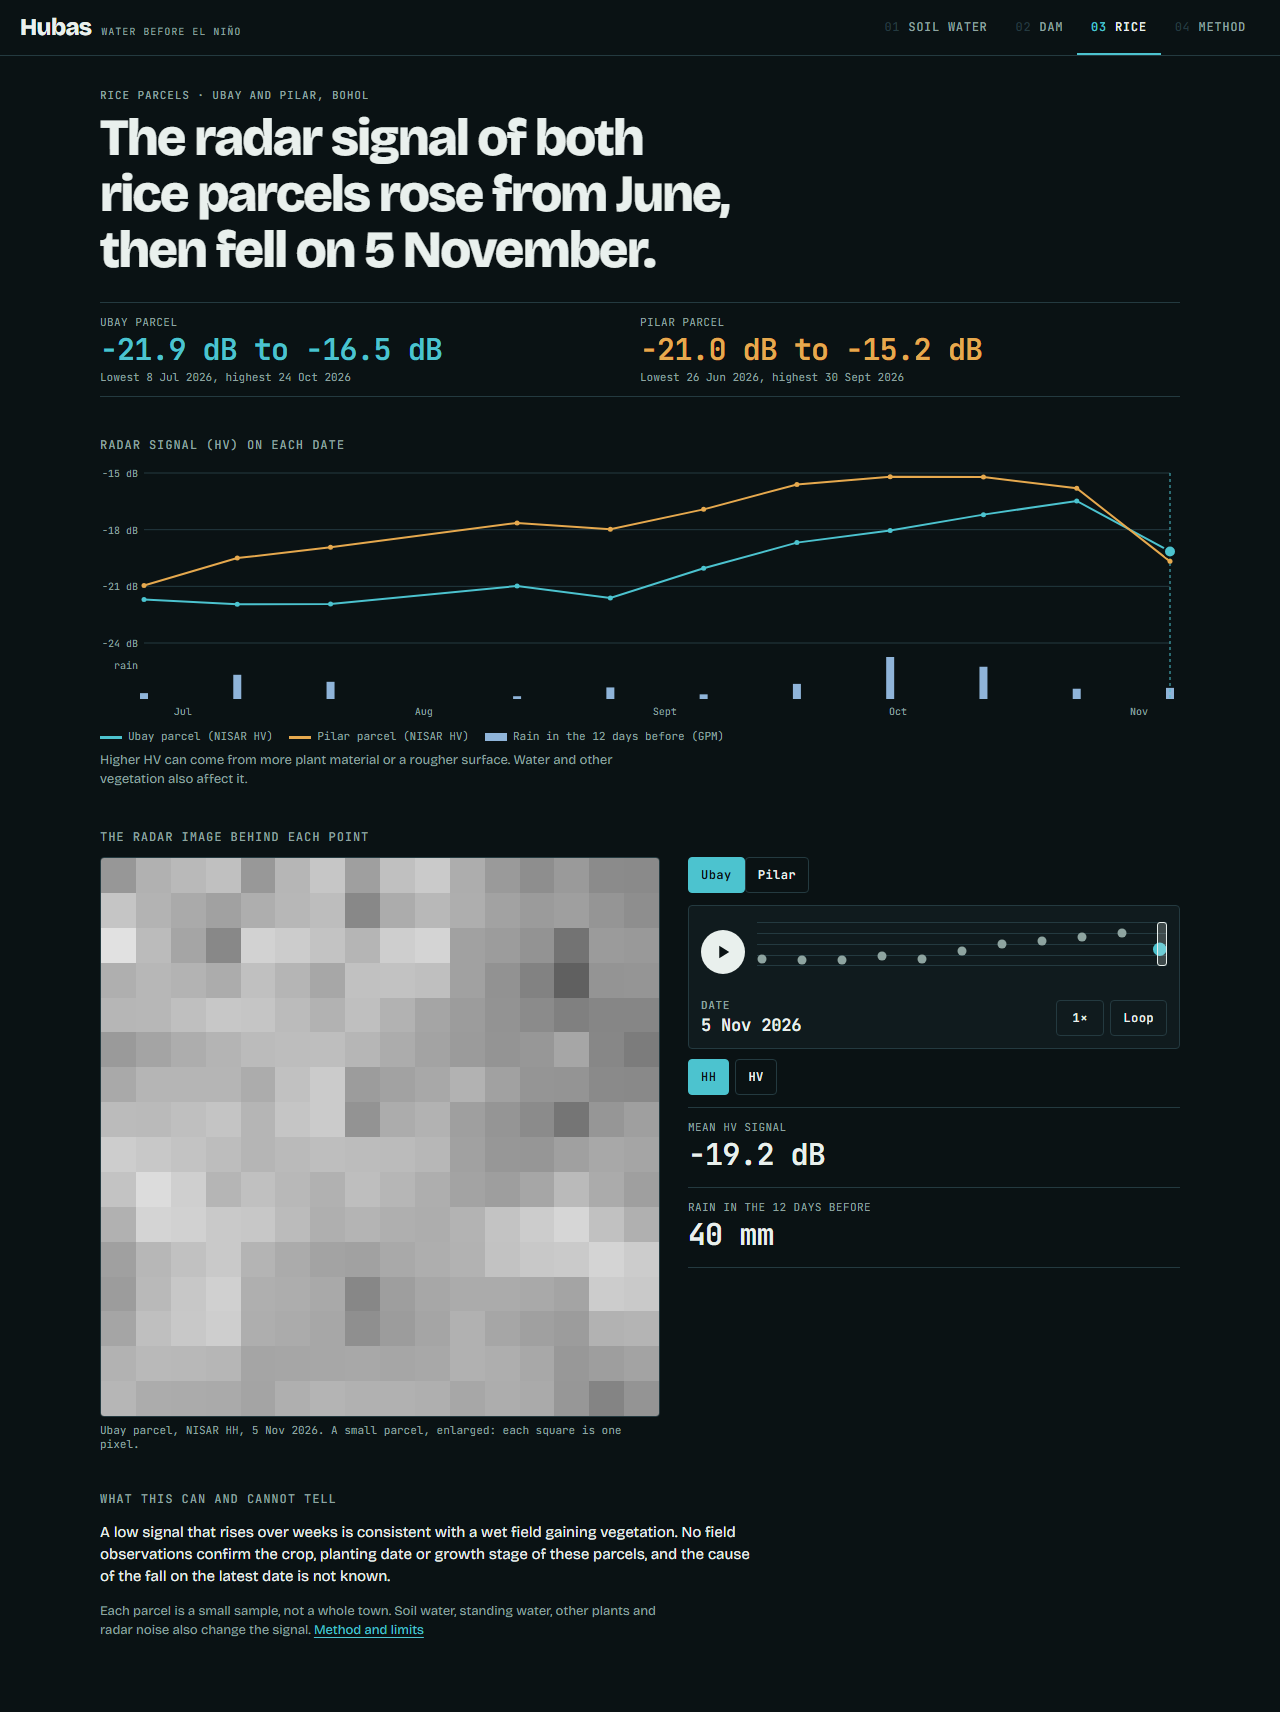
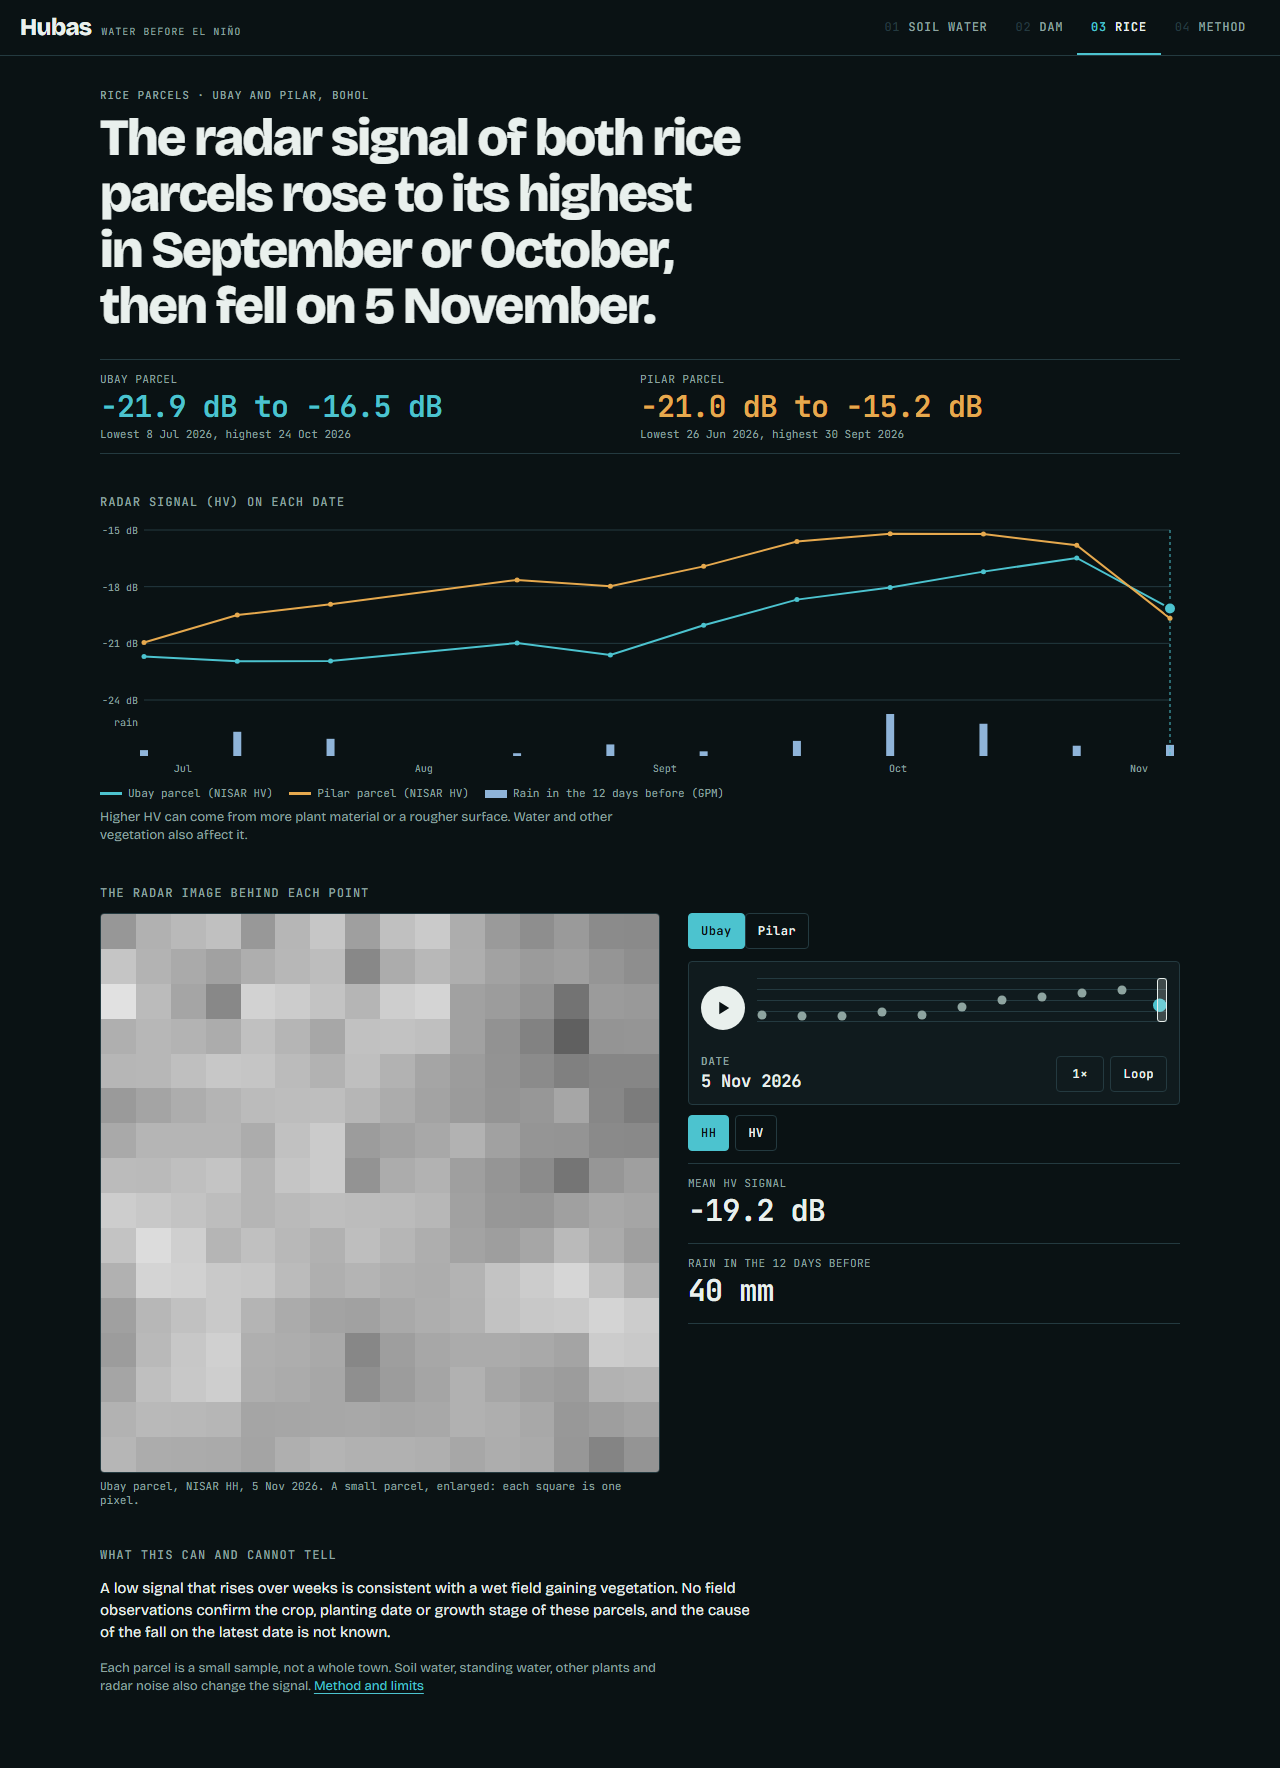
fix: match the rice heading to the HV data of both parcels [sc-514]
"Rose from June" was wrong for Ubay, whose lowest HV is on 8 July. The
guard spec still tested the old sentence, so it passed either way. The
spec now also checks that each parcel peaks above its first date.

diff --git a/app/e2e/rice.spec.ts b/app/e2e/rice.spec.ts
@@ -12,6 +12,7 @@ test("the data still supports the rice heading", async ({ request }) => {
   for (const { id, nisar } of targets.filter((target) => target.kind === "rice")) {
     const hv = nisar.meanHvDb!;
     const high = hv.indexOf(Math.max(...hv));
+    expect(hv[high], `${id} rises above its first date`).toBeGreaterThan(hv[0]);
     expect([8, 9], `${id} peaks in September or October`).toContain(new Date(nisar.dates[high]).getUTCMonth());
     expect(nisar.dates.at(-1), `${id} ends on 5 November`).toBe("2026-11-05");
     expect(hv.at(-1)!, `${id} is lower on the last date`).toBeLessThan(hv.at(-2)!);

diff --git a/app/src/app/rice/RiceView.tsx b/app/src/app/rice/RiceView.tsx
@@ -37,7 +37,7 @@ export default function RiceView({ parcels }: { parcels: Target[] }) {
   return (
     <main className="dam-page rice-page" data-ready={ready}>
       <p className="eyebrow">Rice parcels · Ubay and Pilar, Bohol</p>
-      <h1>The radar signal of both rice parcels rose from June, then fell on 5 November.</h1>
+      <h1>The radar signal of both rice parcels rose to its highest in September or October, then fell on 5 November.</h1>
       <dl className="dam-stats">
         {parcels.map((item, i) => {
           const values = item.nisar.meanHvDb!;

diff --git a/.agents/skills/verify-hubas/features/rice.md b/.agents/skills/verify-hubas/features/rice.md
@@ -21,7 +21,7 @@ The `/rice` page shows the HV radar signal of two small rice parcels in Bohol, U
 ## Driving it with control-hubas
 
 - Start the static export with `node scripts/control-hubas.mjs up` and run `doctor`.
-- **Open rice.** Run `node scripts/control-hubas.mjs drive --nav Rice --name rice` and again with `--viewport 375x812`. `path` is `/rice`, `heading` is `The radar signal of both rice parcels rose from June, then fell on 5 November.`, and `consoleErrors` is empty. In `aria.yml`: both ranges, `Date` `5 Nov 2026`, HV `−19.2 dB` and rain `40 mm` (Ubay).
+- **Open rice.** Run `node scripts/control-hubas.mjs drive --nav Rice --name rice` and again with `--viewport 375x812`. `path` is `/rice`, `heading` is `The radar signal of both rice parcels rose to its highest in September or October, then fell on 5 November.`, and `consoleErrors` is empty. In `aria.yml`: both ranges, `Date` `5 Nov 2026`, HV `−19.2 dB` and rain `40 mm` (Ubay).
 - **Selection kept.** Run `drive --town 0701246000 --window 3 --nav Rice --name rice-sel`. In `aria.yml` the Soil water link points to `/?town=0701246000&window=3` and the Dam, Rice and Method links carry the same query.
 - `drive` cannot press the parcel or band buttons or move the Date slider. Use the Playwright MCP against the URL from `up`: open `/rice` and wait for `.rice-page[data-ready=true]`. Click `Pilar`: `rice-hv` reads `−19.7 dB` and `rice-rain` `46 mm`. Click `HV`: the image `src` is `/data/targets/pilar-rice-2026-11-05-hv.png`.
 - Run `npx playwright test e2e/rice.spec.ts` for every date and both bands of both parcels and a chart click, on desktop and phone. It also checks that the data still supports the heading. With `PROOF=1` it rewrites `docs/proof/sc-136-rice-desktop.png` and `-mobile.png`.

diff --git a/.claude/skills/verify-hubas/features/rice.md b/.claude/skills/verify-hubas/features/rice.md
@@ -21,7 +21,7 @@ The `/rice` page shows the HV radar signal of two small rice parcels in Bohol, U
 ## Driving it with control-hubas
 
 - Start the static export with `node scripts/control-hubas.mjs up` and run `doctor`.
-- **Open rice.** Run `node scripts/control-hubas.mjs drive --nav Rice --name rice` and again with `--viewport 375x812`. `path` is `/rice`, `heading` is `The radar signal of both rice parcels rose from June, then fell on 5 November.`, and `consoleErrors` is empty. In `aria.yml`: both ranges, `Date` `5 Nov 2026`, HV `−19.2 dB` and rain `40 mm` (Ubay).
+- **Open rice.** Run `node scripts/control-hubas.mjs drive --nav Rice --name rice` and again with `--viewport 375x812`. `path` is `/rice`, `heading` is `The radar signal of both rice parcels rose to its highest in September or October, then fell on 5 November.`, and `consoleErrors` is empty. In `aria.yml`: both ranges, `Date` `5 Nov 2026`, HV `−19.2 dB` and rain `40 mm` (Ubay).
 - **Selection kept.** Run `drive --town 0701246000 --window 3 --nav Rice --name rice-sel`. In `aria.yml` the Soil water link points to `/?town=0701246000&window=3` and the Dam, Rice and Method links carry the same query.
 - `drive` cannot press the parcel or band buttons or move the Date slider. Use the Playwright MCP against the URL from `up`: open `/rice` and wait for `.rice-page[data-ready=true]`. Click `Pilar`: `rice-hv` reads `−19.7 dB` and `rice-rain` `46 mm`. Click `HV`: the image `src` is `/data/targets/pilar-rice-2026-11-05-hv.png`.
 - Run `npx playwright test e2e/rice.spec.ts` for every date and both bands of both parcels and a chart click, on desktop and phone. It also checks that the data still supports the heading. With `PROOF=1` it rewrites `docs/proof/sc-136-rice-desktop.png` and `-mobile.png`.
